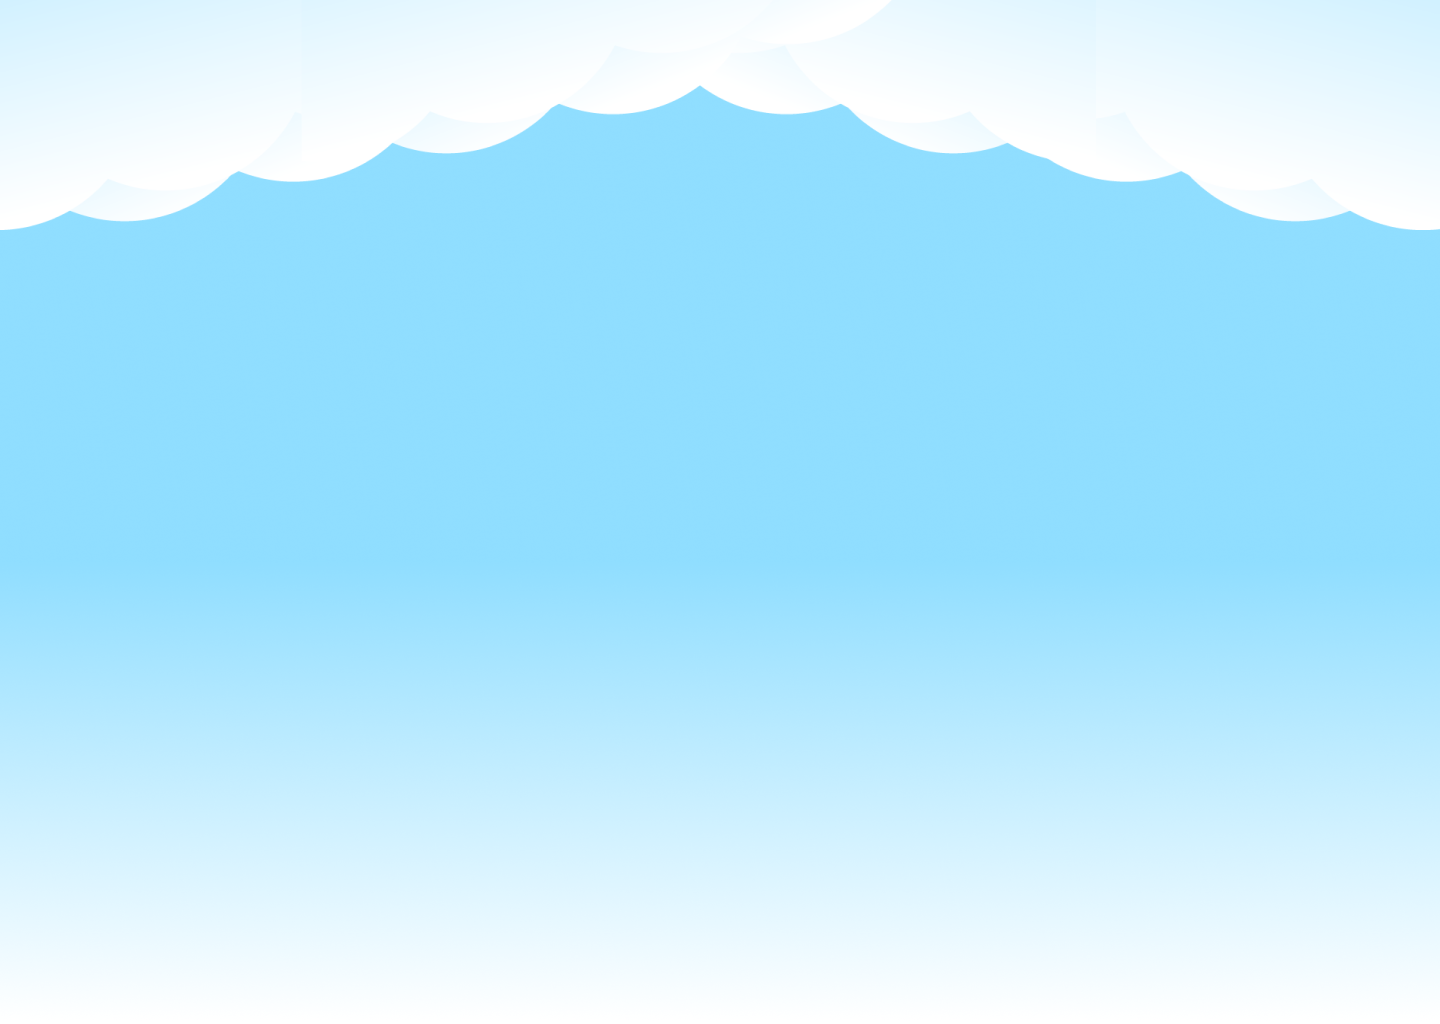
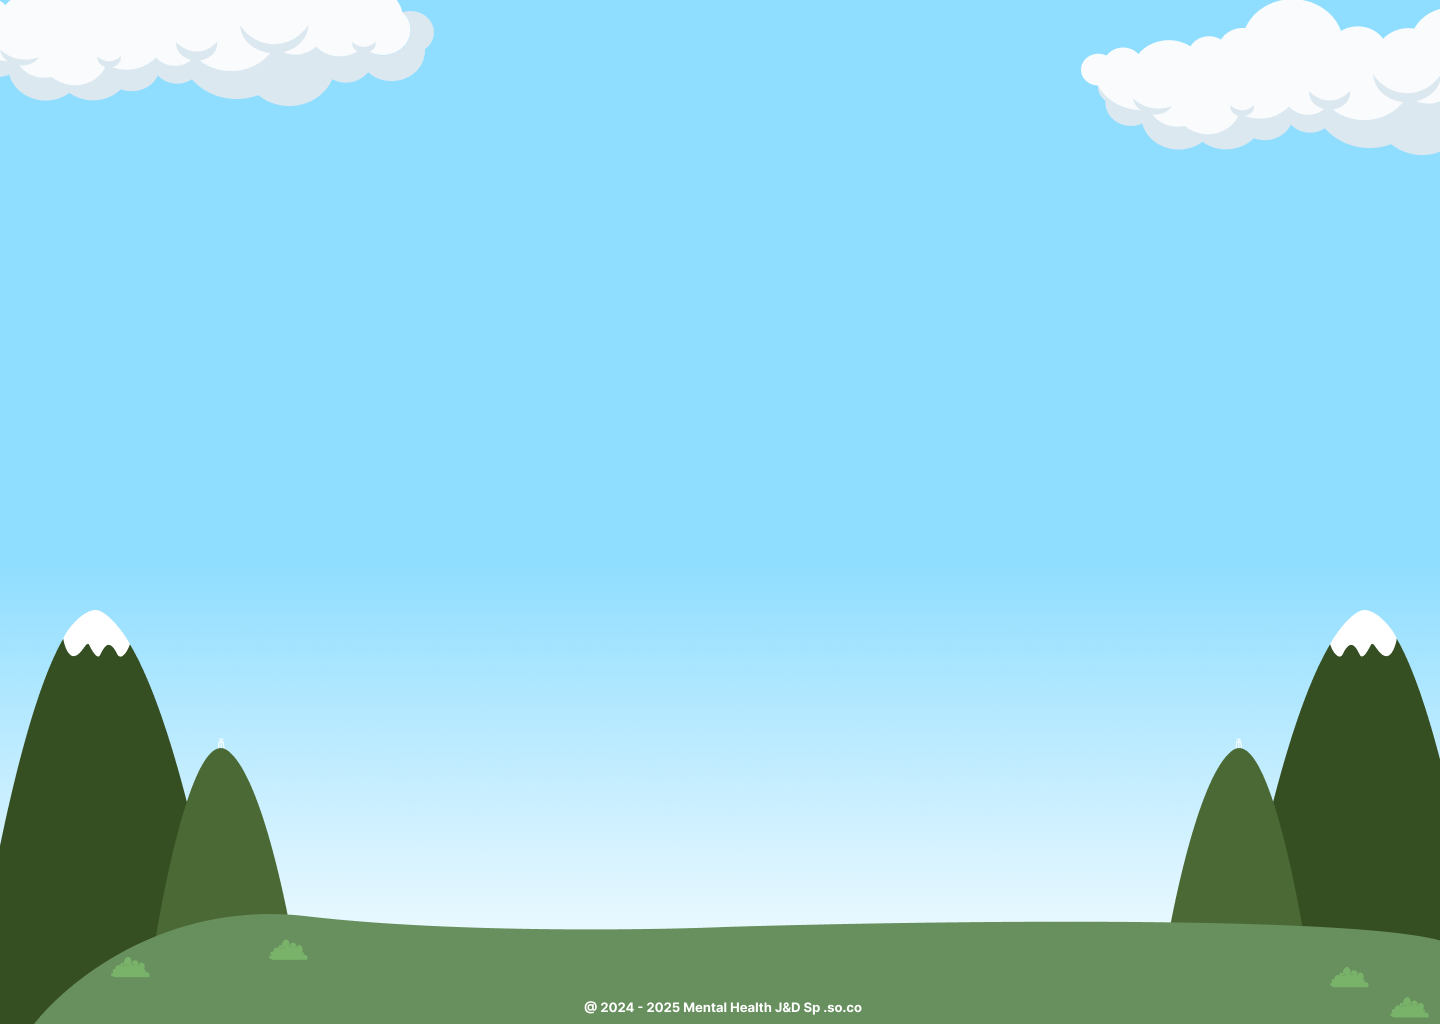
Change background and remove serenity text in psychiatrist page

Changed region(s): [[0.0, 0.5938, 1.0, 1.0], [0.0, 0.0, 1.0, 0.25]]

diff --git a/src/Pages/SearchPskiater.tsx b/src/Pages/SearchPskiater.tsx
@@ -213,7 +213,7 @@ const SearchPskiater: React.FC = () => {
       }}
     >
       <div className="pt-8 px-4">
-        <h1 className="text-white text-2xl text-center sm:text-3xl mb-8">
+        <h1 className="text-white text-2xl text-center sm:text-3xl mb-16">
           Your mind deserves care,
           <br />
           let us help you find the right psychiatrist
